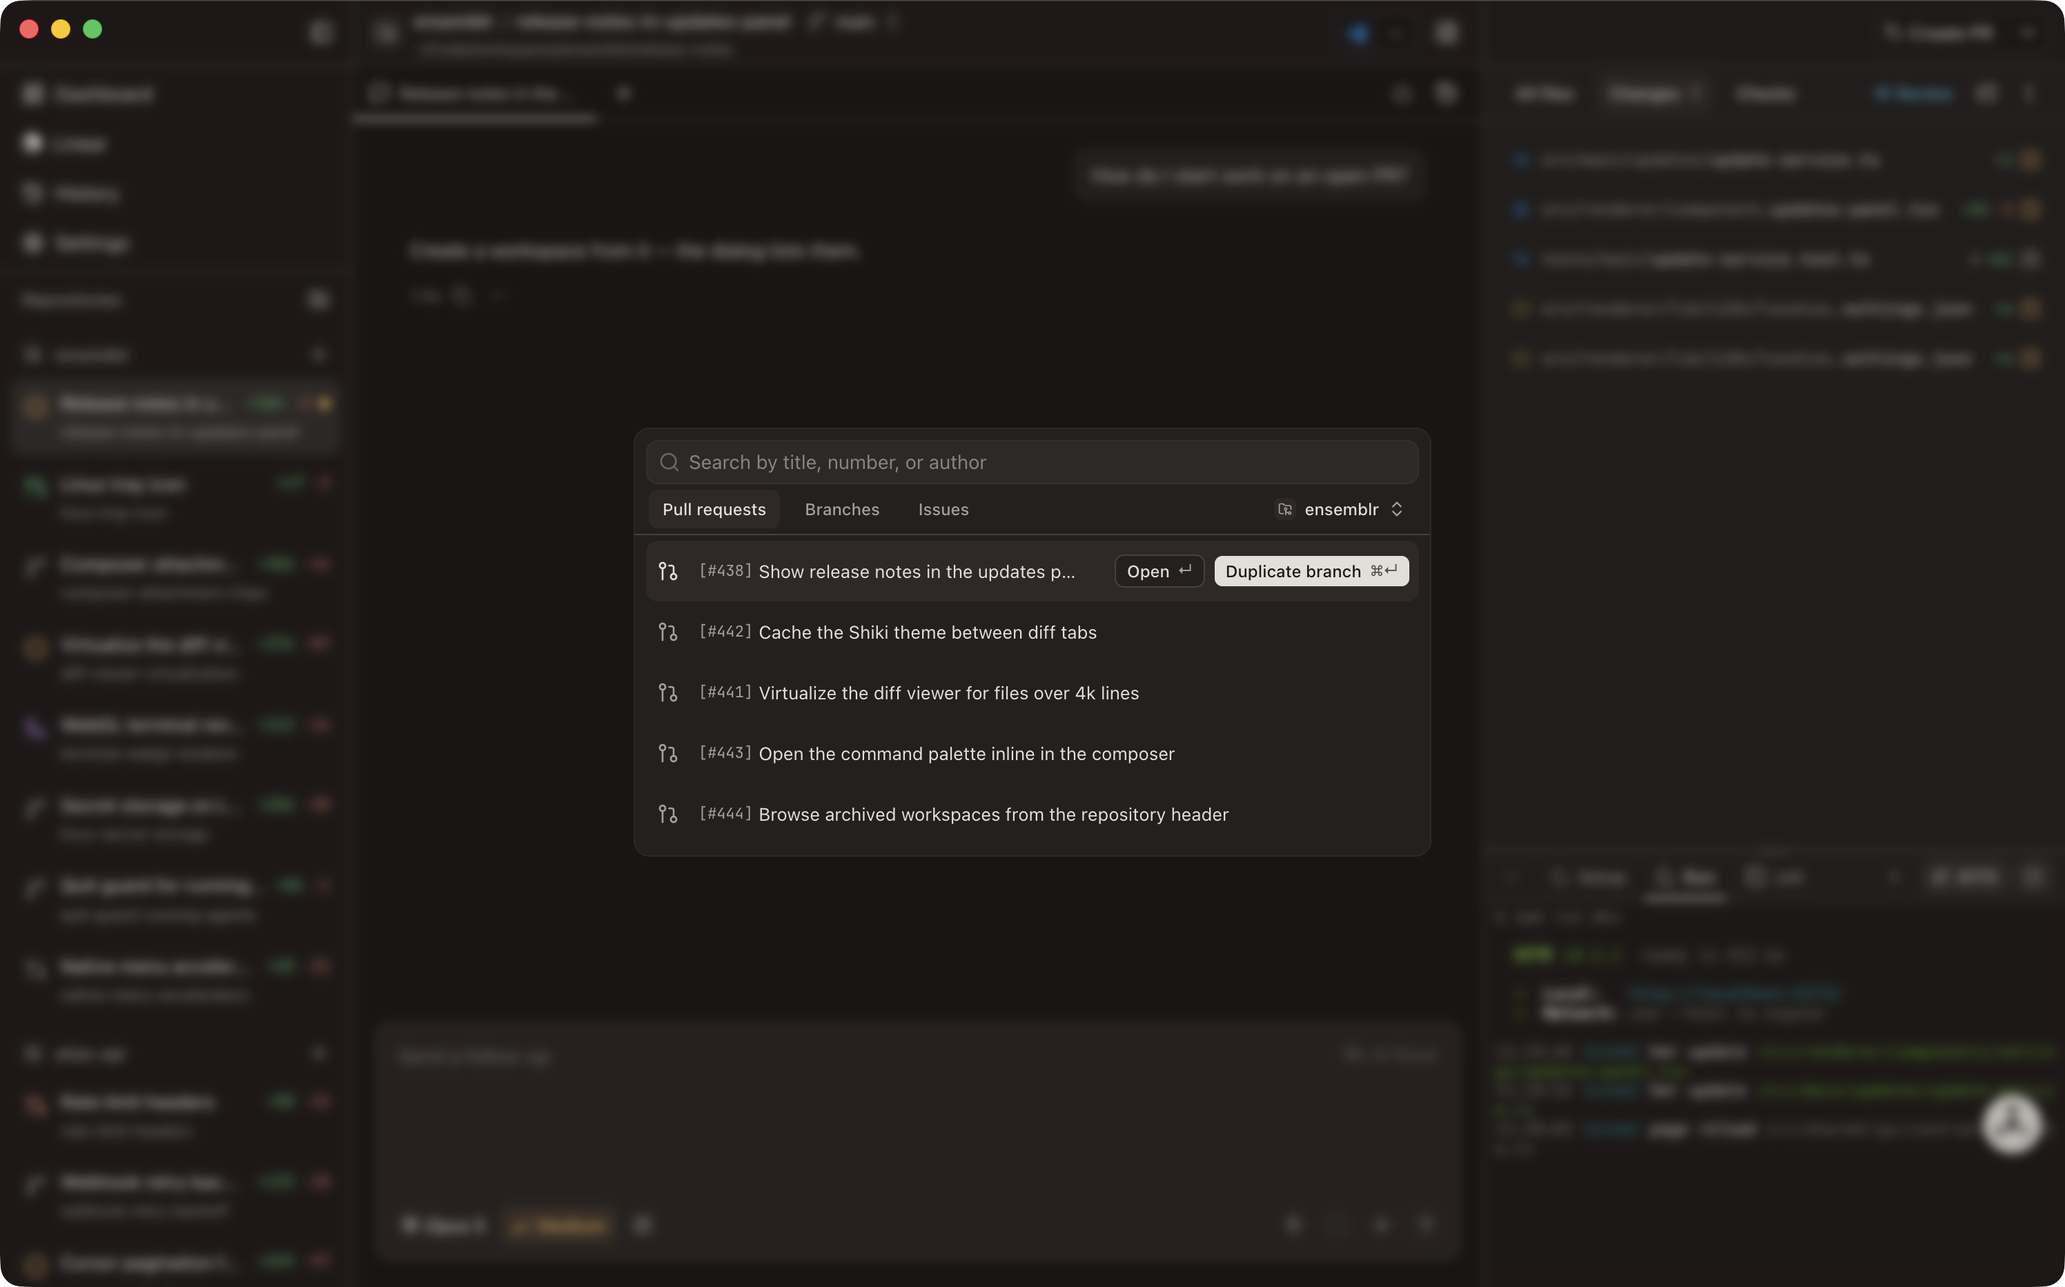
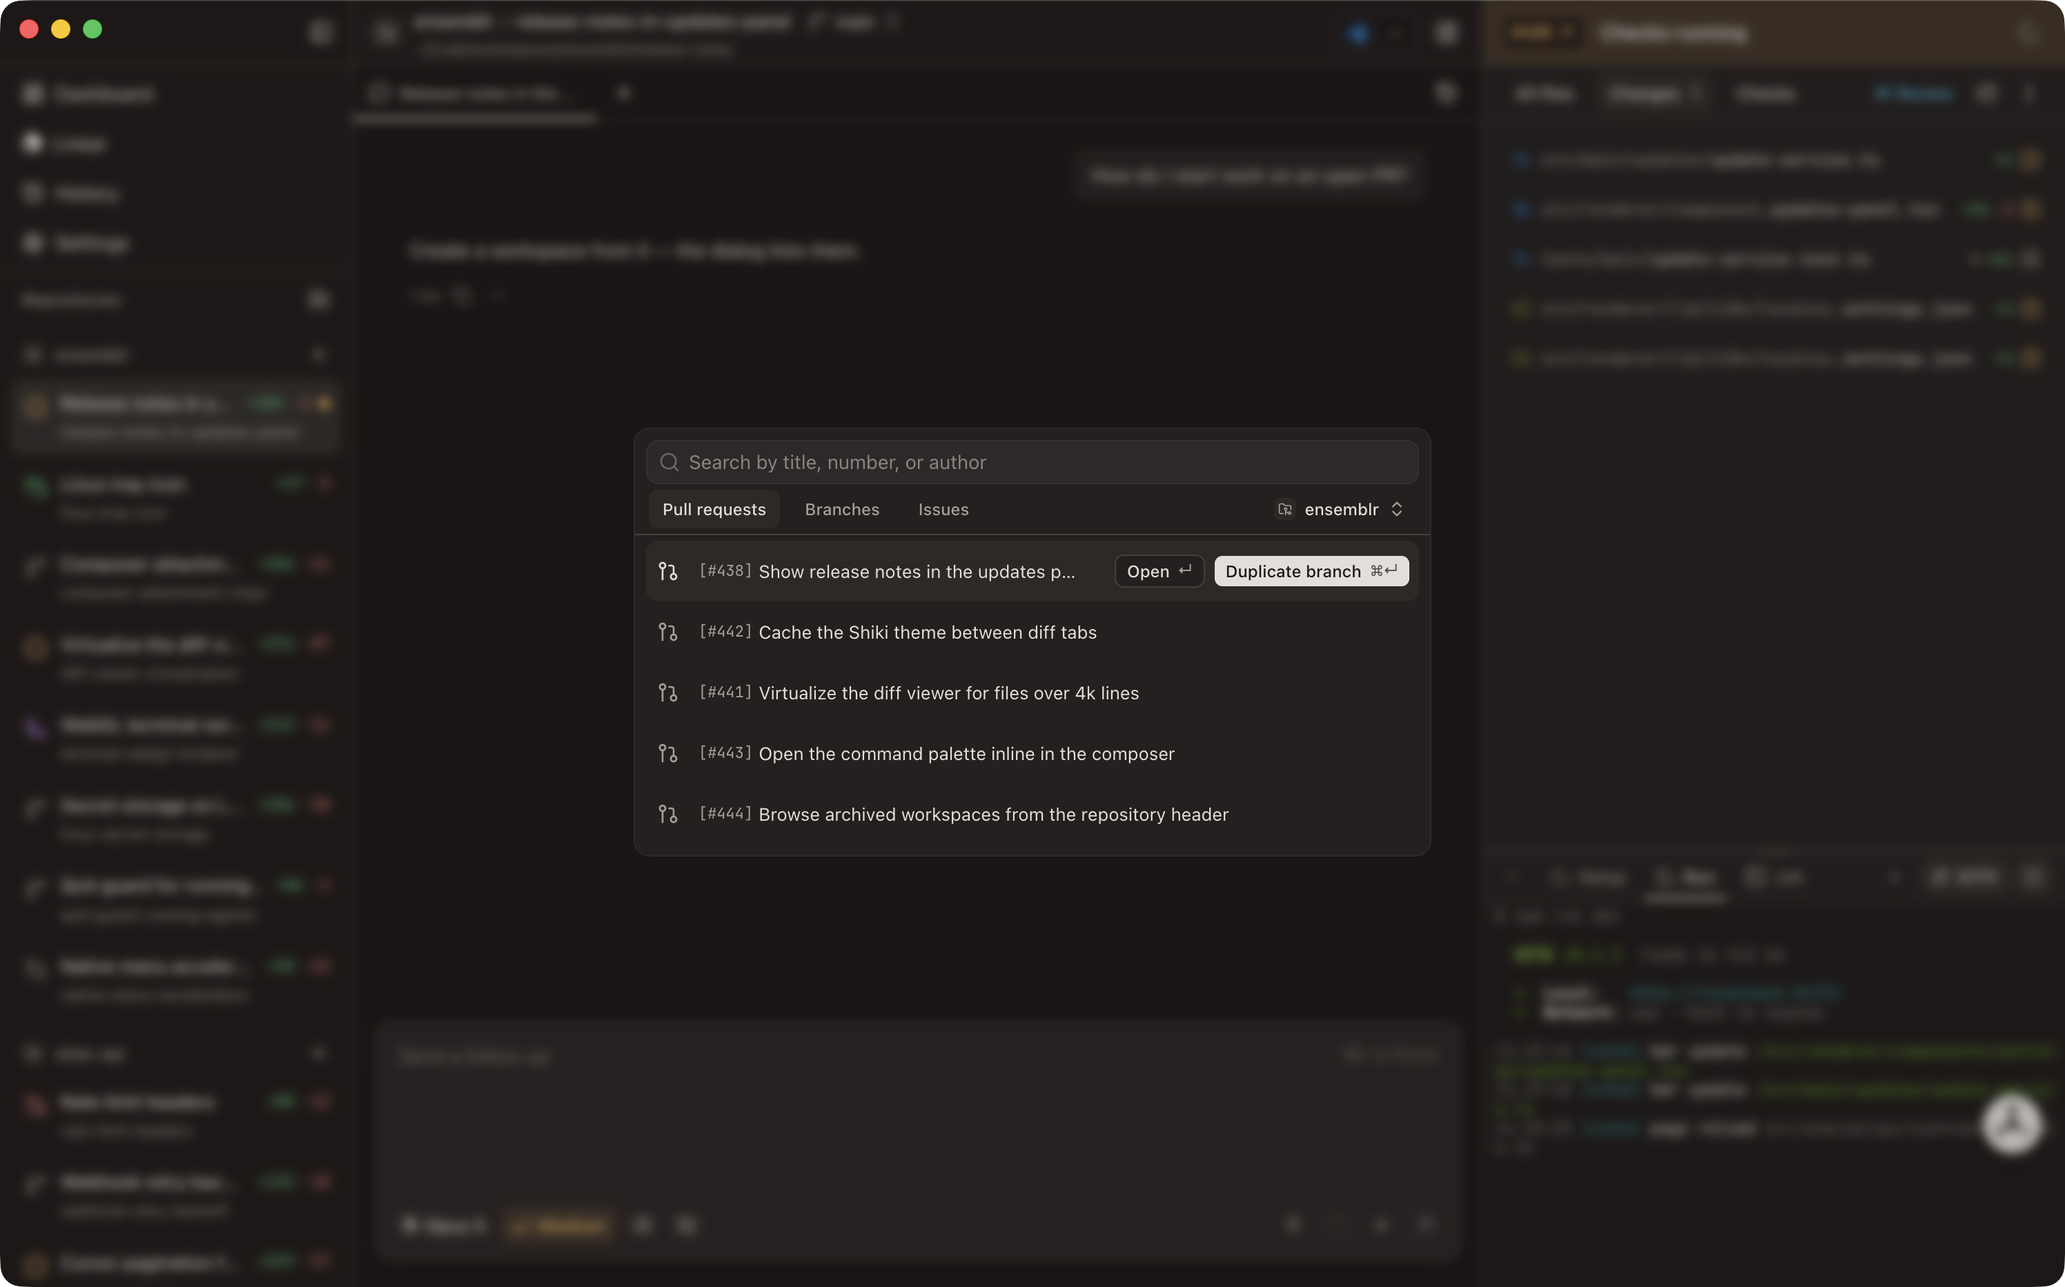
docs: give the Concierge its own README section and re-capture the composer shots
The Concierge was one bullet in "What it does". Promote it to a top-level
section in the AFK section's mould: a teaser in the lede, its own H2 between
the feature list and AFK mode, a row in the Core vocabulary table, and two
screenshots rather than one.

The second shot is a new demo scenario, `concierge-delegation`. The existing
`concierge` shot shows the panel answering across every workspace; nothing
showed the other half of what the Concierge is — that it writes only in its
own folder and hands real change to an orchestrator it spawns into the
workspace that needs it. The scenario is held mid-turn deliberately, because
a finished turn folds its tool cards into a summary row and the cards are
the subject.

Every shot under docs/guide/images was captured on 2026-09-04; the AFK
composer chip landed on 2026-09-05, so none of them showed it. Re-captured
the ten whose composer is visible. Those also pick up two other changes made
since that date: the review header's #438 pull-request chip and "Checks
running", and a bot icon dropped from the chat header. The Concierge panel's
own composer carries no AFK toggle, so `06-concierge.png` re-captures
pixel-identical and is left alone.

Changed region(s): [[0.7149, 0.0, 1.0, 0.0622]]

diff --git a/demo/scenarios/concierge-delegation.ts b/demo/scenarios/concierge-delegation.ts
@@ -1,0 +1,120 @@
+import { DEMO_RUN_SCRIPTS, DEMO_TERMINALS } from '../fixtures/dock.ts';
+import {
+	DEMO_CLOCK,
+	DEMO_GIT_FILES,
+	DEMO_REPOSITORIES,
+} from '../fixtures/workspaces.ts';
+import { defineScenario } from '../scenario.ts';
+import {
+	asConciergeTranscript,
+	assistantText,
+	buildTranscript,
+	reasoning,
+	toolCall,
+	toolResult,
+	userPrompt,
+} from '../transcript.ts';
+
+const BRANCH_ID = 'demo-branch-release-notes';
+const CONCIERGE_SESSION_ID = 'demo-concierge-delegation';
+const CONCIERGE_BRANCH_ID = 'demo-branch-concierge-delegation';
+
+const BRIEF = `The header checks on this branch have been failing since yesterday. Start from the retry middleware the last turn rewrote, get all five header tests green, and report what the middleware was actually getting wrong.`;
+
+/**
+ * The Concierge putting an agent to work in a workspace that is not the one on
+ * screen. It reads across everything and writes in one place, so the turn that
+ * moves real work is a brief handed to an orchestrator rather than an edit —
+ * which is the claim the panel-over-the-board shot cannot make on its own.
+ *
+ * Held mid-turn deliberately: a finished turn folds its tool cards into one
+ * summary row, and the cards are the subject here.
+ */
+export default defineScenario({
+	chat: {
+		agentSessionId: 'demo-session-release-notes',
+		branchId: BRANCH_ID,
+		isStreaming: false,
+		model: 'claude-opus-5',
+		title: 'Release notes in the updates panel',
+		transcript: buildTranscript(BRANCH_ID, DEMO_CLOCK, [
+			userPrompt(
+				'The updates panel shows a version and a link but never the release notes. Wire the notes through from the feed.',
+			),
+			reasoning(
+				'The feed response already carries a `body` for each release — `resolveUpdate` reads `version` and `htmlUrl` off the candidate and drops everything else. So this is a matter of widening the snapshot the resolver returns, not of fetching anything new.',
+			),
+			toolCall('Read', 'call-read-update-service', {
+				file_path: 'src/main/updates/update-service.ts',
+				limit: 40,
+				offset: 12,
+			}),
+			toolResult(
+				'call-read-update-service',
+				'  return {\n    ...idleStatus(channel),\n    availableVersion: candidate.version,\n    releaseUrl: candidate.htmlUrl,\n    state: "available",\n  };',
+			),
+			toolCall('Edit', 'call-edit-update-service', {
+				file_path: 'src/main/updates/update-service.ts',
+				new_string: '    notes: candidate.body ?? null,',
+				old_string: '    availableVersion: candidate.version,',
+			}),
+			toolResult('call-edit-update-service', 'Applied 1 edit.'),
+			assistantText(
+				'One line at the resolver. `resolveUpdate` built the snapshot from three fields off the candidate release and never read `body`, so the notes were dropped there rather than in the panel.\n\nThree things follow from this:\n\n1. **The feed already carried it.** `body` is on every release the GitHub releases API returns, so nothing new is fetched and the check costs exactly what it did before.\n2. **A release with no notes stays null**, which is the state the panel already renders as an empty section rather than a blank card.\n3. **`UpdateStatusSnapshot` needed no change** — it already declares `notes: string | null`, so the contract is unchanged and the panel renders it without a further edit.\n\n`tests/main/update-service.test.ts` gained one case for the candidate whose body is absent, pinning the null path.',
+			),
+		]),
+	},
+	clock: DEMO_CLOCK,
+	concierge: {
+		title: 'Rate limit headers',
+		transcript: asConciergeTranscript(
+			CONCIERGE_SESSION_ID,
+			buildTranscript(CONCIERGE_BRANCH_ID, DEMO_CLOCK, [
+				userPrompt('Anything red across the two repositories?'),
+				toolCall('ensemblr_list_workspaces', 'call-list-workspaces', {}),
+				toolResult(
+					'call-list-workspaces',
+					'11 workspaces across ensemblr and atlas-api — 2 in review, 4 in progress.',
+				),
+				assistantText(
+					'One. **Rate limit headers** on `atlas-api` has had failing checks since yesterday afternoon, and nothing has run in that workspace since.\n\nEverything else in review is green and waiting on a human.',
+				),
+				userPrompt(
+					'Rate limit headers has been red since yesterday and nobody has picked it up. Get it moving.',
+				),
+				reasoning(
+					'I cannot touch that worktree — every write outside my own folder is refused — so the useful thing I can do is brief whoever can.\n\nReading what the last agent left there first. A brief that repeats work already done costs more than no brief at all.',
+				),
+				toolCall('ensemblr_read_conversation', 'call-read-conversation', {
+					agentSessionId: 'atlas-api / rate-limit-headers',
+					stat: true,
+				}),
+				toolResult(
+					'call-read-conversation',
+					'14 turns, 41 tool calls. The last one rewrote the retry middleware and left 3 of 5 header tests failing.',
+				),
+				toolCall('ensemblr_get_workspace_diff', 'call-workspace-diff', {
+					stat: true,
+					workspaceId: 'ws-rate-limit',
+				}),
+				toolResult(
+					'call-workspace-diff',
+					'4 files changed, +88 −12 — headers.ts, retry-middleware.ts, and the two test files under tests/rate-limit/.',
+				),
+				toolCall('ensemblr_start_conversation', 'call-start-conversation', {
+					prompt: BRIEF,
+					title: 'Rate limit headers — get the checks green',
+					workspaceId: 'ws-rate-limit',
+				}),
+			]),
+		),
+	},
+	gitFilesByPath: DEMO_GIT_FILES,
+	id: 'concierge-delegation',
+	label: 'Concierge — briefing an orchestrator',
+	repositories: DEMO_REPOSITORIES,
+	route: '/projects/repo-ensemblr/workspaces/ws-release-notes/chats/demo-chat',
+	runScripts: DEMO_RUN_SCRIPTS,
+	terminals: DEMO_TERMINALS,
+	workspaceId: 'ws-release-notes',
+});

diff --git a/demo/scenarios/index.ts b/demo/scenarios/index.ts
@@ -5,6 +5,7 @@ import board from './board.ts';
 import boardCardMenu from './board-card-menu.ts';
 import checksPullRequest from './checks-pull-request.ts';
 import concierge from './concierge.ts';
+import conciergeDelegation from './concierge-delegation.ts';
 import createWorkspaceBranches from './create-workspace-branches.ts';
 import createWorkspaceSources from './create-workspace-sources.ts';
 import dockRunPicker from './dock-run-picker.ts';
@@ -46,6 +47,7 @@ export const DEMO_SCENARIOS: readonly DemoScenario[] = [
 	createWorkspaceBranches,
 	linearIssues,
 	concierge,
+	conciergeDelegation,
 	onboardingWelcome,
 	onboardingAgentCli,
 	settingsProviders,

diff --git a/README.md b/README.md
@@ -13,6 +13,11 @@ permission-gated surface is **Ensemblr Control**, and the worktree manager under
 safe — every stream of work gets its own git worktree, branch, and review path, so a fan-out of agents
 cannot collide.
 
+**One agent sits above all of it.** The [**Concierge**](#the-concierge--one-agent-above-every-workspace)
+belongs to no workspace: it reads across every project you have open, remembers what it learns between
+conversations, and never writes a file itself — real change is delegated to an orchestrator it spawns into
+the workspace that needs it.
+
 **macOS on Apple silicon, or Linux on x86-64. Bring your own agent CLI — Pi or Claude Code, one is enough.
 `git` and an authenticated `gh` are required.**
 
@@ -189,15 +194,6 @@ tree stays one level deep. Depth, spawn count, and spawn rate are capped. Linear
 sub-agents, and nothing at any depth can move an issue to a completed or canceled state: agent work stops
 at In Review, enforced in code rather than in a prompt.
 
-**The Concierge sits above every workspace.** One panel, opened from a floating launcher rather
-than a workspace's own chat strip, that reads across every project and workspace you have open —
-files, diffs, review comments, terminal output, the board, Linear — and remembers what it learns
-between conversations in a memory of its own. It never writes a file itself: real change is
-delegated to an orchestrator it spawns into the workspace that needs it, so the containment that
-keeps one workspace from touching another also keeps the Concierge from becoming a way around it.
-
-![The Concierge panel floating over the dashboard board, answering a question about where every workspace stands.](./docs/guide/images/06-concierge.png)
-
 **Two agent runtimes, one chat surface.** Pi runs as a CLI in RPC mode; Claude Code is driven through the
 Agent SDK against *your own* `claude` binary — Ensemblr ships none. Both share the same timeline, tool
 cards, model and thinking pickers, tool-approval prompts, git-backed checkpoints, session branching, and
@@ -244,6 +240,48 @@ agents write back. A user-facing string a change adds ships translated in the sa
 The scope rests on **five commitments**: the agent can drive the app under permission; isolation is the
 product; the agent runtime is pluggable and never privileged; review is local-first and ends in GitHub;
 configuration is committed, legible, and ours.
+
+---
+
+## The Concierge — one agent above every workspace
+
+Every other agent in Ensemblr lives *inside* a workspace and can see exactly that one. The **Concierge**
+does not. It runs above every project, in a folder of its own under the Ensemblr root, and it is the only
+agent that can answer a question about all of your work at once — which workspaces have something waiting,
+what a running agent actually did, where a body of work stands.
+
+Open it with `⌘⇧C`, from View ▸ Concierge, or from the round launcher floating over the window. It is a
+**panel** rather than a chat tab: drag it where you want it, maximize it with `⌘⇧M`, dismiss it with `⎋`.
+It belongs to the app rather than to a workspace, so it is the same conversation whichever project you
+happen to be looking at. It runs on the same two runtimes as everything else — Pi or Claude Code — under a
+model setting of its own, because the model that suits supervising a dozen workspaces is not the one that
+suits editing a file in any of them.
+
+![The Concierge panel floating over the dashboard board, answering a question about where every workspace stands.](./docs/guide/images/06-concierge.png)
+
+**It reads everywhere.** Every workspace's files, diff, and review comments; any conversation in any
+workspace replayed with its tool calls and results; every terminal's output, the board, and Linear. A
+project, workspace, chat, or artifact it names in an answer renders as a chip you can click, and typing
+`@` in its composer ranks all four across the whole app rather than the one you are looking at.
+
+**It writes in one place — its own folder — and that is enforced per tool call rather than asked for in a
+prompt.** A write anywhere else is refused, `bash` is held to read-only commands, and it cannot open a
+terminal or launch a harness, because a shell is a write channel the read-only rules cannot see into. So
+when something actually needs changing, it spawns a **root orchestrator** into the workspace that needs it
+and briefs that agent — a peer that owns the task and fans out its own sub-agents, not a child of the
+Concierge. The containment that keeps one workspace from touching another is the same containment that
+keeps the Concierge from becoming a way around it.
+
+![The Concierge open over one workspace while it works on another: it has replayed that workspace's transcript and read its diff, and is now starting a chat in Rate limit headers, a workspace in the other repository.](./docs/guide/images/06-concierge-delegation.png)
+
+**Its memory outlives the conversation.** Its context does not survive a clear, so what it learns goes to
+one markdown file per fact under `memory/`, indexed in `MEMORY.md` and read back first next session. The
+test it applies is not whether a fact is useful but whether a tool could fetch it again — no workspace ids,
+no branch lists, no counts — because a memory that duplicates a tool call is worse than no memory at all:
+it will trust the file instead of making the call. Clearing hands you the fresh conversation immediately
+and leaves the retired one running one last turn, stripped of every control tool, to write its files.
+
+Full detail in [`docs/guide/06-agents.md`](./docs/guide/06-agents.md#the-concierge).
 
 ---
 
@@ -319,6 +357,7 @@ Full glossary in [`CONTEXT.md`](./CONTEXT.md); the user-facing tour is
 | **Workspace** | An isolated project copy for one stream of work — its own branch, working tree, agent sessions, run state, and review path. |
 | **Agent Runtime** | A coding agent Ensemblr drives on its own chat surface — Pi or Claude Code — selected per conversation. |
 | **Harness** | A coding-agent CLI launched in a workspace terminal tab as its native TUI, rather than on the chat surface. |
+| **Concierge** | The one agent that belongs to no workspace: it reads across every project at once, writes only inside its own folder, and delegates real change to an orchestrator it spawns into the workspace that needs it. |
 | **Ensemblr Control** | The permission-gated surface that lets an agent drive the app itself, through the `ensemblr_*` tools. |
 | **Review Flow** | Inspect changes, run checks, create a PR, merge accepted work, or archive rejected work. |
 

diff --git a/docs/guide/images/CAPTURE.md b/docs/guide/images/CAPTURE.md
@@ -43,12 +43,12 @@ inside the app.
   at 2×. To go higher, capture on a display with a larger backing store; there is
   no software lever.
 - **Budget: 600 KB per image, 9 MB for this directory.** The set in place is
-  8.0 MB across twenty-three shots, averaging 356 KB — roughly nine times what
+  8.3 MB across twenty-four shots, averaging 355 KB — roughly nine times what
   the downscaled set cost, for four times the pixels and no lossy step. The two
-  create-workspace dialogs are the heaviest at ~550 KB, because a long list of
-  distinct rows is the worst case for PNG. There is about a megabyte of headroom
-  left, so the next shot added is the one that has to justify itself against
-  dropping another.
+  create-workspace dialogs are the heaviest at 560 KB and 550 KB, because a long
+  list of distinct rows is the worst case for PNG. There is about two thirds of
+  a megabyte of headroom left, so the next shot added is the one that has to
+  justify itself against dropping another.
 
 ### Processing a raw capture
 
@@ -89,6 +89,7 @@ by the two commands above.
 | `06-afk-report.png` | `afk-mode-report` | `README.md`, `06-agents.md` | What the run left behind: the report with its decisions and the finding it argued with, the Review chat in the strip, and the open pull request in the header. The settled counterpart to `06-afk-mode.png` — deliberately a finished turn, because the report is the subject. |
 | `06-chat-light.png` | `workspace-mid-turn-light` | `11-app-settings.md` | The same workspace and the same turn as `06-chat.png`, on the light theme — the shot the Appearance section points at. |
 | `06-concierge.png` | `concierge` | `README.md`, `06-agents.md` | The Concierge panel open over the board, reading across every workspace at once. |
+| `06-concierge-delegation.png` | `concierge-delegation` | `README.md`, `06-agents.md` | The other half of what the Concierge is: open over one workspace, mid-turn, having replayed another workspace's transcript and read its diff, now starting a chat in a workspace in the *other* repository. Deliberately mid-turn — a finished turn folds the tool cards into a summary row, and the cards are the subject. |
 | `07-dock-run-scripts.png` | `dock-run-picker` | `README.md`, `07-terminals-and-run-scripts.md` | The dock with a run script running **and** the run-script picker open, so the named scripts and their icons are legible. |
 | `08-changes.png` | `review-changes` | `README.md`, `08-reviewing-changes.md` | The diff viewer with an inline review comment thread open. |
 | `08-pr.png` | `checks-pull-request` | `08-reviewing-changes.md` | The Checks tab with the PR title and description editor filled in, over its check runs. |

diff --git a/demo/README.md b/demo/README.md
@@ -36,6 +36,7 @@ enforces it in both directions.
 | `create-workspace-branches` | The same dialog on Branches, held branch against free ones |
 | `linear-issues` | The Linear view, grouped by state |
 | `concierge` | The Concierge panel open over the board |
+| `concierge-delegation` | The Concierge over one workspace, briefing an agent into another |
 | `onboarding-welcome` | The setup wizard's welcome screen and language picker |
 | `onboarding-agent-cli` | The wizard's either-or agent-CLI gate, one runtime missing |
 | `settings-providers` | Settings → Providers with both runtimes healthy |

diff --git a/docs/guide/06-agents.md b/docs/guide/06-agents.md
@@ -196,6 +196,8 @@ channel rather than asked for in the prompt:
   of its own to default to, so an op that names none is refused rather than
   guessed at.
 
+![The Concierge open over one workspace while it works on another: it has replayed that workspace's transcript and read its diff, and is now starting a chat in Rate limit headers, a workspace in the other repository.](./images/06-concierge-delegation.png)
+
 ### Everything it names, you can click
 
 A project, a workspace, a chat, or an artifact the Concierge mentions in its answers renders as a
